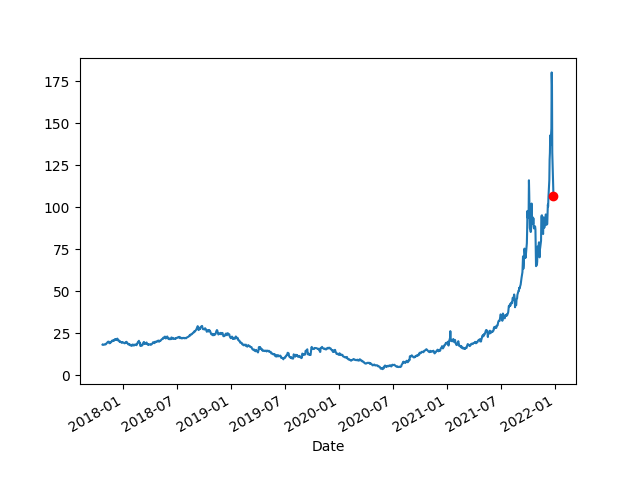
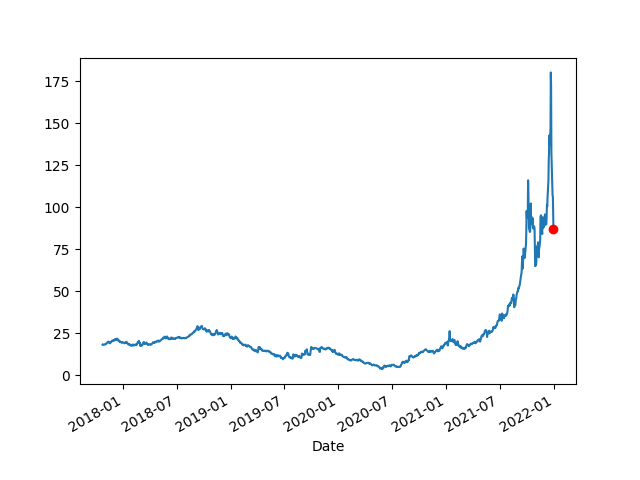
-

diff --git a/en/2011/02/bureucracy.md b/en/2011/02/bureucracy.md
@@ -2,10 +2,8 @@
 
 Powershift, Alvin Toffler
 
-Everyone hates a bureaucrat.
-
 For a long time businessmen maintained the myth that bureaucracy was a
-disease of government. Civil servants were called lazy, parasitic, and
+[thing] of government. Civil servants were called lazy, parasitic, and
 surly, while business executives were pictured as dynamic, productive,
 and eager to please the customer. Yet bureaucracy is just as rampant
 in business as in the public sector. Indeed, many of the world's

diff --git a/tr/2009/04/burokrasi.md b/tr/2009/04/burokrasi.md
@@ -1,8 +1,6 @@
 # Bürokrasi
 
-Bürokratlardan kimse hazzetmez.
-
-İşadamları genellikle bürokrasinin devletin ürettiği bir hastalık
+İşadamları genellikle bürokrasinin devletin ürettiği bir [şey]
 olduğunu düşünürler. Bu görüşe göre kamu çalışanları tembel,
 parazitsel, asık suratlı, iş dünyası çalışanları ise dinamik, üretken,
 müşteriyi memnun etmek için çırpınan bir haldeydi. Halbuki iş

diff --git a/en/2019/05/stats.md b/en/2019/05/stats.md
@@ -859,13 +859,13 @@ plt.savefig('eunatgas.png')
 
 ```text
 Date
-2021-12-16    142.764999
-2021-12-17    136.912994
-2021-12-20    146.925995
 2021-12-21    180.266998
 2021-12-22    172.875000
 2021-12-23    132.578995
 2021-12-27    106.892998
+2021-12-28    106.589996
+2021-12-29     96.475998
+2021-12-30     87.027000
 Name: Adj Close, dtype: float64
 ```
 
